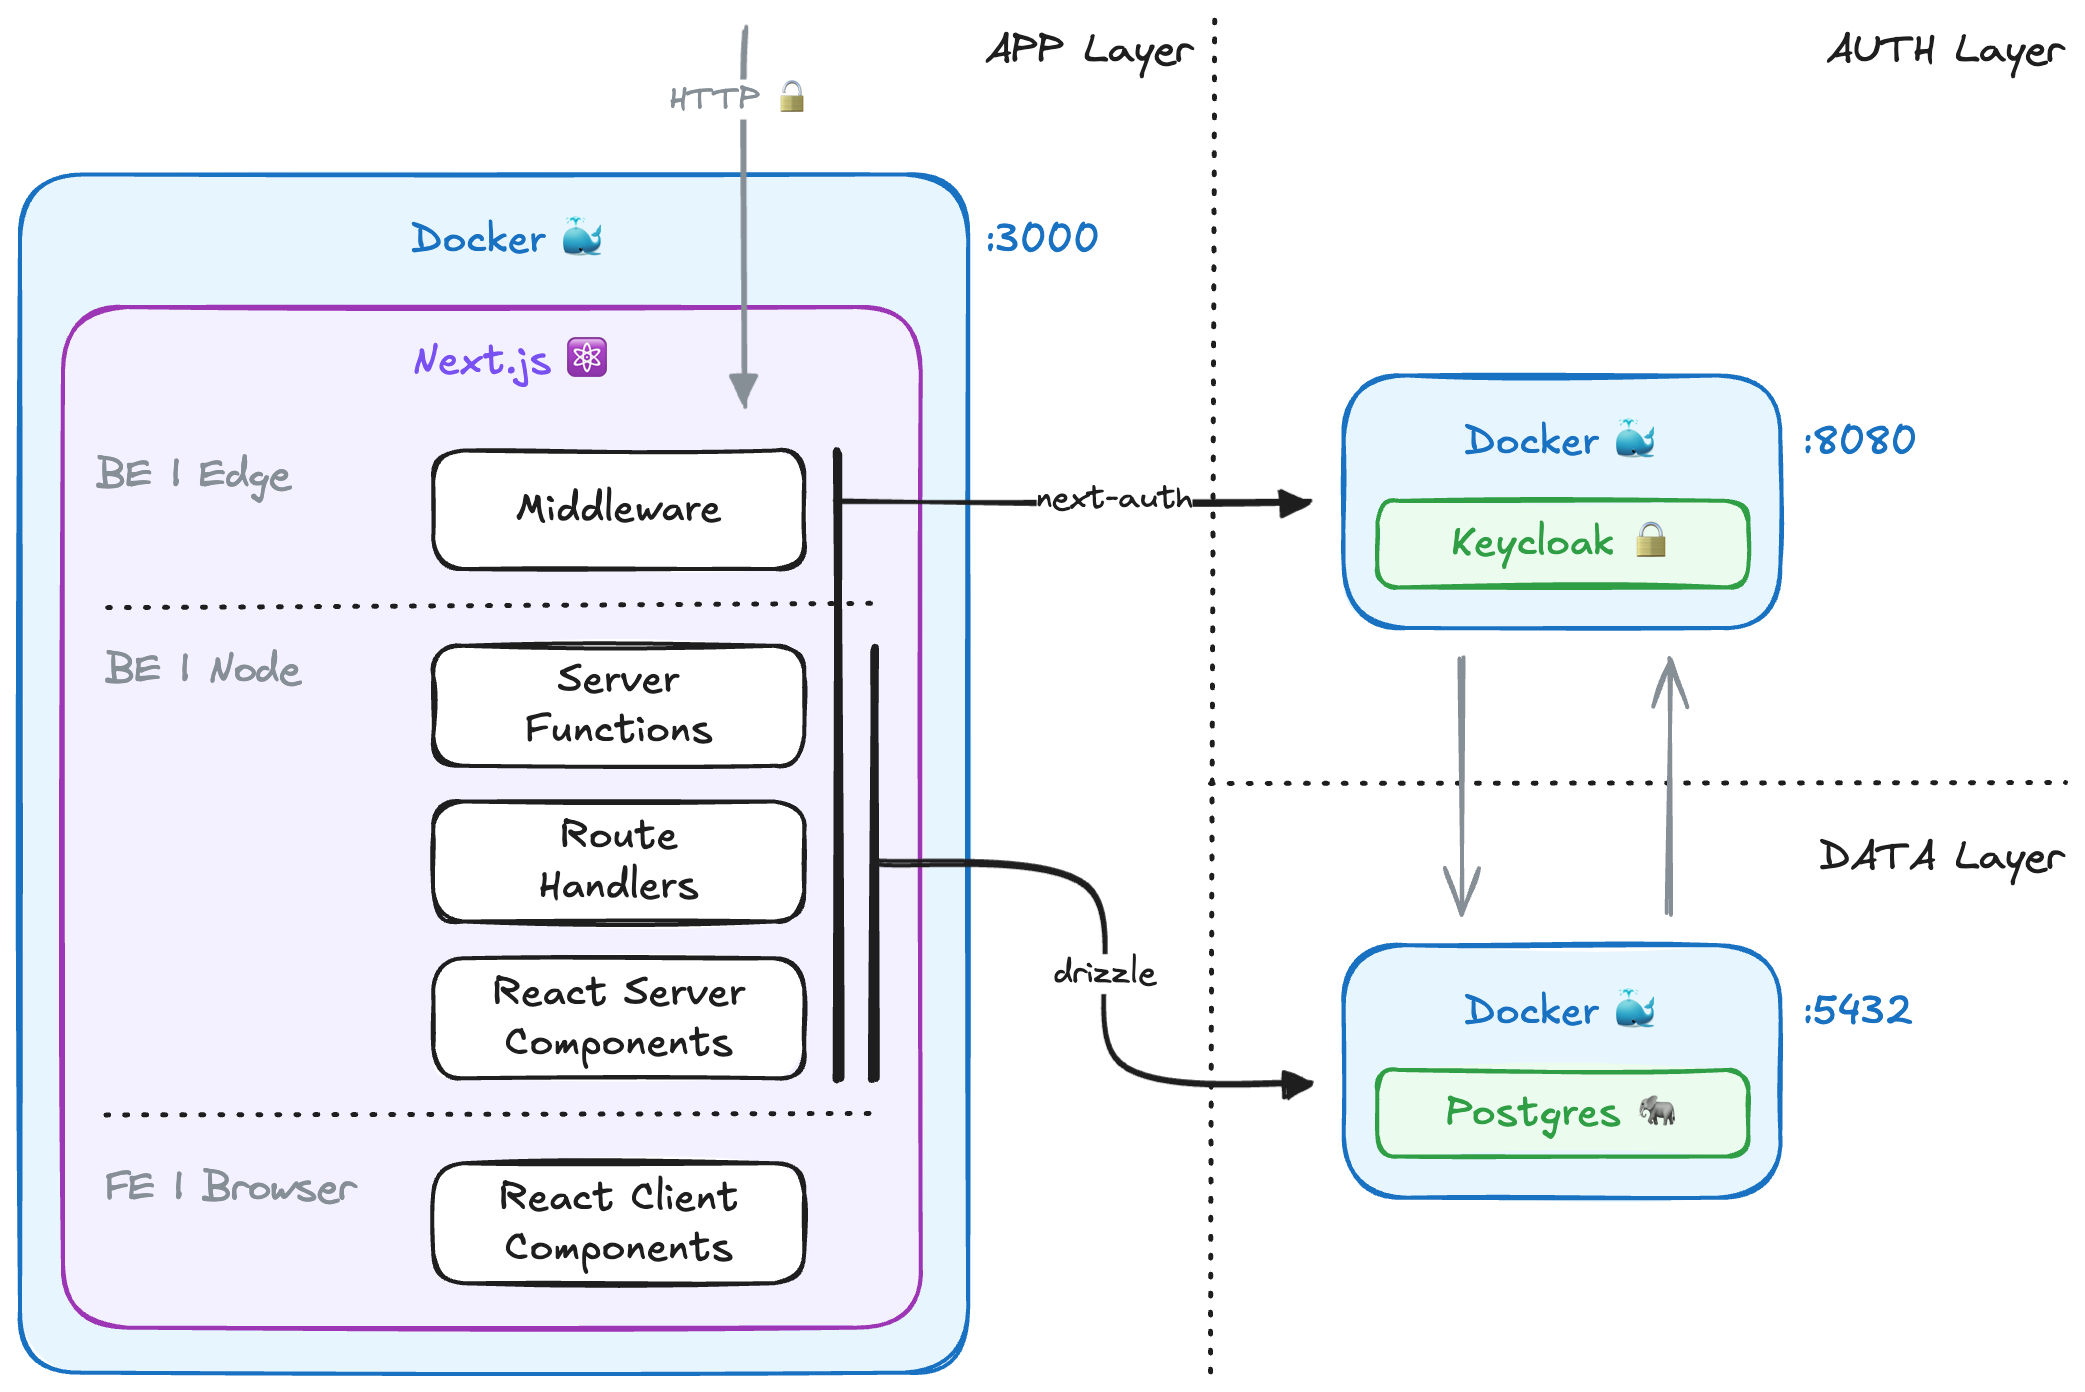
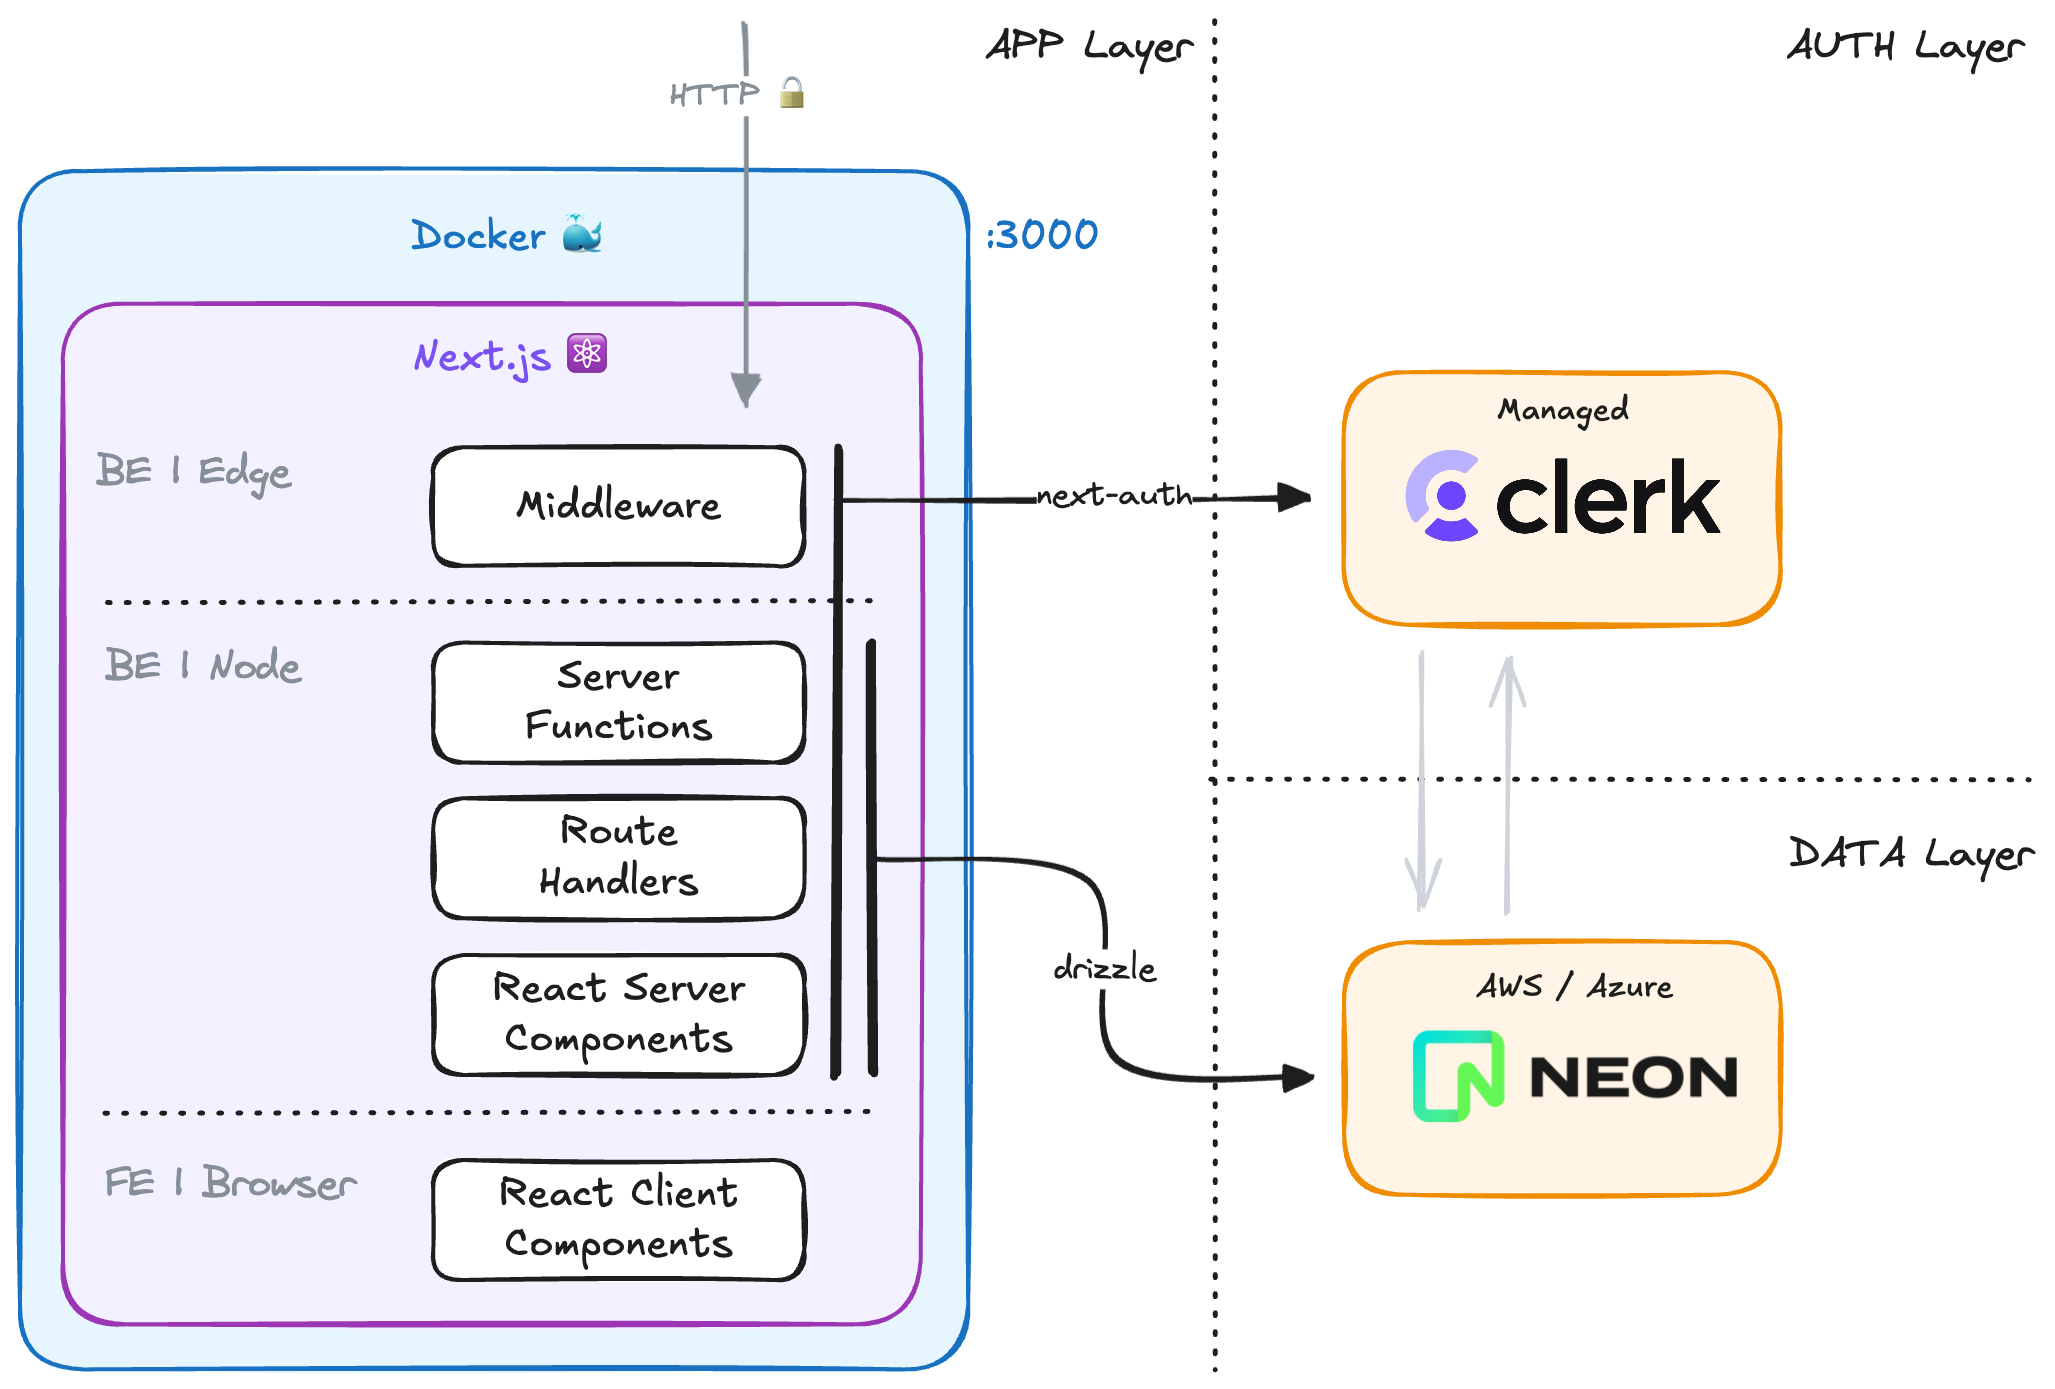
docs: update readme with new stack

diff --git a/README.md b/README.md
@@ -9,7 +9,6 @@ We try to keep this project as simple as possible, so you can start with just th
 If you are not familiar with the different technologies used in this project, please refer to the respective docs. If you still are in the wind, please refer to the [Documentation](https://create.t3.gg/) and the [T3 Stack Tutorial](https://create.t3.gg/en/faq#what-learning-resources-are-currently-available).
 
 - [Next.js](https://nextjs.org)
-- [NextAuth.js](https://next-auth.js.org)
 - [Drizzle](https://orm.drizzle.team)
 - [Tailwind CSS](https://tailwindcss.com)
 - [Shadcn/ui](https://ui.shadcn.com)
@@ -19,8 +18,8 @@ If you are not familiar with the different technologies used in this project, pl
 In this stack we tried to follow all of the best practices of the different components that are used to enable the various features. In order to offer some default we pre-configured the following layers:
 
 - ✅ App Layer, a standard [Next.js](https://nextjs.org) app
-- ✅ Auth Layer, a Keycloak instance wrapped with [NextAuth.js](https://next-auth.js.org)
-- ✅ Data Layer, a Postgres instance managed by [Drizzle](https://orm.drizzle.team)
+- ✅ Auth Layer, a [Clerk](https://clerk.com/) instance
+- ✅ Data Layer, a Postgres instance managed by [Neon](https://neon.tech/) with [Drizzle](https://orm.drizzle.team)
 - 😌 That's it!
 
 Below you can find a diagram representing an high level overview of architecture we strived to implement. This fullstack template aims to reduce complexity, increase DX and reduce dependencies overhead.
@@ -29,7 +28,7 @@ Below you can find a diagram representing an high level overview of architecture
 
 ### Architecture - App Layer
 
-The application is build following all of the latest Next.js 14 best practices and guidelines. Please refer to [Next.js](https://nextjs.org) official docs to get a better understanding of the available features.
+The application is build following all of the latest Next.js 15 best practices and guidelines. Please refer to [Next.js](https://nextjs.org) official docs to get a better understanding of the available features.
 
 The standard Next.js application layer features:
 
@@ -43,23 +42,17 @@ All of the above are just the basic features of a modern Next.js application. Yo
 
 ### Architecture - Auth Layer
 
-For authentication and authorization we choose Keycloak provider. In this template Auth is configured out-of-the-box with some defaults that can be modified.
+For authentication and authorization we choose Clerk for rapid development and easy of use. In this template Auth is configured out-of-the-box with some defaults that can be modified.
 
-- Keycloak configuration, `/docker/realm.json`
-- Keycloak Admin, `.env`
-
-Comunication with Keycloak is handled via [NextAuth.js](https://next-auth.js.org). This choice enbles you the Developer to change Idendity Provider is needed, without much effort. See the relative [documentation](https://next-auth.js.org/providers/) to find out more.
-
-If you want to go faster and don't want to worry about hosting and configurations use [Clerk](https://clerk.com). Here a quick [migration guide](https://clerk.com/docs/guides/authjs-migration)
+Documentation can be found [here](https://clerk.com/docs).
 
 ### Architecture - Data Layer
 
-A standard Postrges Database is the default. Both the App and Keycloak will use the same DB (but different schemas) to handle their respective business logic.
+A [Neon](https://neon.tech/) Postrges Database is required, but local development can be done via a local instance through Docker.
 
 [Drizzle](https://orm.drizzle.team) is the ORM used to manage the the DB and this is the case for several reasons:
 
 - Can handle almost every relational databases, so switching can be done pretty easily.
-- NextAuth has a Drizzle adapter to access the underling DB, giving both the _App Layer_ and the _Auth Layer_ a standard way to manage data.
 - Easy way to handle schema push, migrations and seeding of the DB
 
 **Why not Prisma?**
@@ -82,7 +75,7 @@ A standard Postrges Database is the default. Both the App and Keycloak will use 
 cp .env.example .env
 ```
 
-2. Then start the localstack needed for development. We need a Postgres instace, a Keycloak server and we should also push DB schema + seed. All of the above can be done with a pre-configured script
+2. Then start the localstack needed for development. We need a Postgres instace, and we should also push DB schema + seed. All of the above can be done with a pre-configured script
 
 ```sh
 ./start-localstack.sh
@@ -108,82 +101,25 @@ This demo tries to showcase many different Next.js features.
 - Running code on server startup
 - A cron that hits a Route Handler
 
-View the demo at https://acme-app.gellify.dev to see further explanations.
+View the demo at https://acme-hfnya4lj9-gellify.vercel.app/ to see further explanations.
 
 ## How do I deploy this? (WIP)
 
-![alt text](./docs/acme_app-charmender-infra.png)
+### VPS (self-host)
 
-#### Prerequisites
+TBD
 
-1. ✅ Purchase a domain name
-2. ✅ Purchase a Linux Ubuntu server (e.g. droplet)
-3. ✅ Docker
-4. 😌 That's it!
+### Vercel (internal products)
 
-#### Quickstart
+Go to the Vercel dashboard add a project, connect your repository and deploy!
 
-1. SSH into your server:
+### Azure
 
-```sh
-ssh root@your_server_ip
-```
+Azure static web apps + GitHub Actions or Azure pipelines
 
-2. Create a SSH key pair:
+### AWS
 
-```sh
-ssh-keygen -t ed25519 -C "name.surname@gellify.com"
-# Enter a file in which to save the key (/home/YOU/.ssh/id_ALGORITHM):[Press enter]
-# Enter passphrase (empty for no passphrase): [Type a passphrase]
-# Enter same passphrase again: [Type passphrase again]
-
-eval "$(ssh-agent -s)"
-
-ssh-add ~/.ssh/id_ed25519
-```
-
-3. Copy the SSH public key to clipboard and add it to your GitHub or BitBucket account:
-
-```sh
-$ cat ~/.ssh/id_ed25519.pub
-# Then select and copy the contents of the id_ed25519.pub file
-# displayed in the terminal to your clipboard
-```
-
-4. From your shell upload the deployment script via SSH:
-
-```sh
-scp -i ~/.ssh/id_ed25519 deploy.sh root@your_server_ip:~
-```
-
-5. From inside the server run the deployment script:
-
-> You can modify the email and domain name variables inside of the script to use your own.
-
-```sh
-chmod +x ~/deploy.sh
-./deploy.sh
-```
-
-#### Deploy script
-
-I've included a Bash script **THAT NEEDS ADJUSTMENTS** which does the following:
-
-- Installs all the necessary packages for your server
-- Installs Docker, Docker Compose, and Nginx
-- Clones this repository
-- Generates an SSL certificate
-- Builds your Next.js application from the Dockerfile
-- Sets up Nginx and configures HTTPS and rate limting
-- Sets up a cron which clears the database every 10m
-- Creates a .env file with your Postgres database creds
-- Once the deployment completes, your Next.js app will be available at:
-
-http://your-provided-domain.com
-
-Next.js app, PostgreSQL database and Keycloak instance will be up and running in Docker containers. To set up your database, you could install npm inside your Postgres container and use the Drizzle scripts.
-
-For pushing subsequent updates, I also provided an update.sh script as an example.
+TBD
 
 ## Must read and watch
 

diff --git a/docs/deploy.md b/docs/deploy.md
@@ -1,0 +1,74 @@
+## How do I deploy this? (DEPRECATED)
+
+![alt text](./docs/acme_app-charmender-infra.png)
+
+#### Prerequisites
+
+1. ✅ Purchase a domain name
+2. ✅ Purchase a Linux Ubuntu server (e.g. droplet)
+3. ✅ Docker
+4. 😌 That's it!
+
+#### Quickstart
+
+1. SSH into your server:
+
+```sh
+ssh root@your_server_ip
+```
+
+2. Create a SSH key pair:
+
+```sh
+ssh-keygen -t ed25519 -C "name.surname@gellify.com"
+# Enter a file in which to save the key (/home/YOU/.ssh/id_ALGORITHM):[Press enter]
+# Enter passphrase (empty for no passphrase): [Type a passphrase]
+# Enter same passphrase again: [Type passphrase again]
+
+eval "$(ssh-agent -s)"
+
+ssh-add ~/.ssh/id_ed25519
+```
+
+3. Copy the SSH public key to clipboard and add it to your GitHub or BitBucket account:
+
+```sh
+$ cat ~/.ssh/id_ed25519.pub
+# Then select and copy the contents of the id_ed25519.pub file
+# displayed in the terminal to your clipboard
+```
+
+4. From your shell upload the deployment script via SSH:
+
+```sh
+scp -i ~/.ssh/id_ed25519 deploy.sh root@your_server_ip:~
+```
+
+5. From inside the server run the deployment script:
+
+> You can modify the email and domain name variables inside of the script to use your own.
+
+```sh
+chmod +x ~/deploy.sh
+./deploy.sh
+```
+
+#### Deploy script
+
+I've included a Bash script **THAT NEEDS ADJUSTMENTS** which does the following:
+
+- Installs all the necessary packages for your server
+- Installs Docker, Docker Compose, and Nginx
+- Clones this repository
+- Generates an SSL certificate
+- Builds your Next.js application from the Dockerfile
+- Sets up Nginx and configures HTTPS and rate limting
+- Sets up a cron which clears the database every 10m
+- Creates a .env file with your Postgres database creds
+- Once the deployment completes, your Next.js app will be available at:
+
+http://your-provided-domain.com
+
+Next.js app, PostgreSQL database and Keycloak instance will be up and running in Docker containers. To set up your database, you could install npm inside your Postgres container and use the Drizzle scripts.
+
+For pushing subsequent updates, I also provided an update.sh script as an example.
